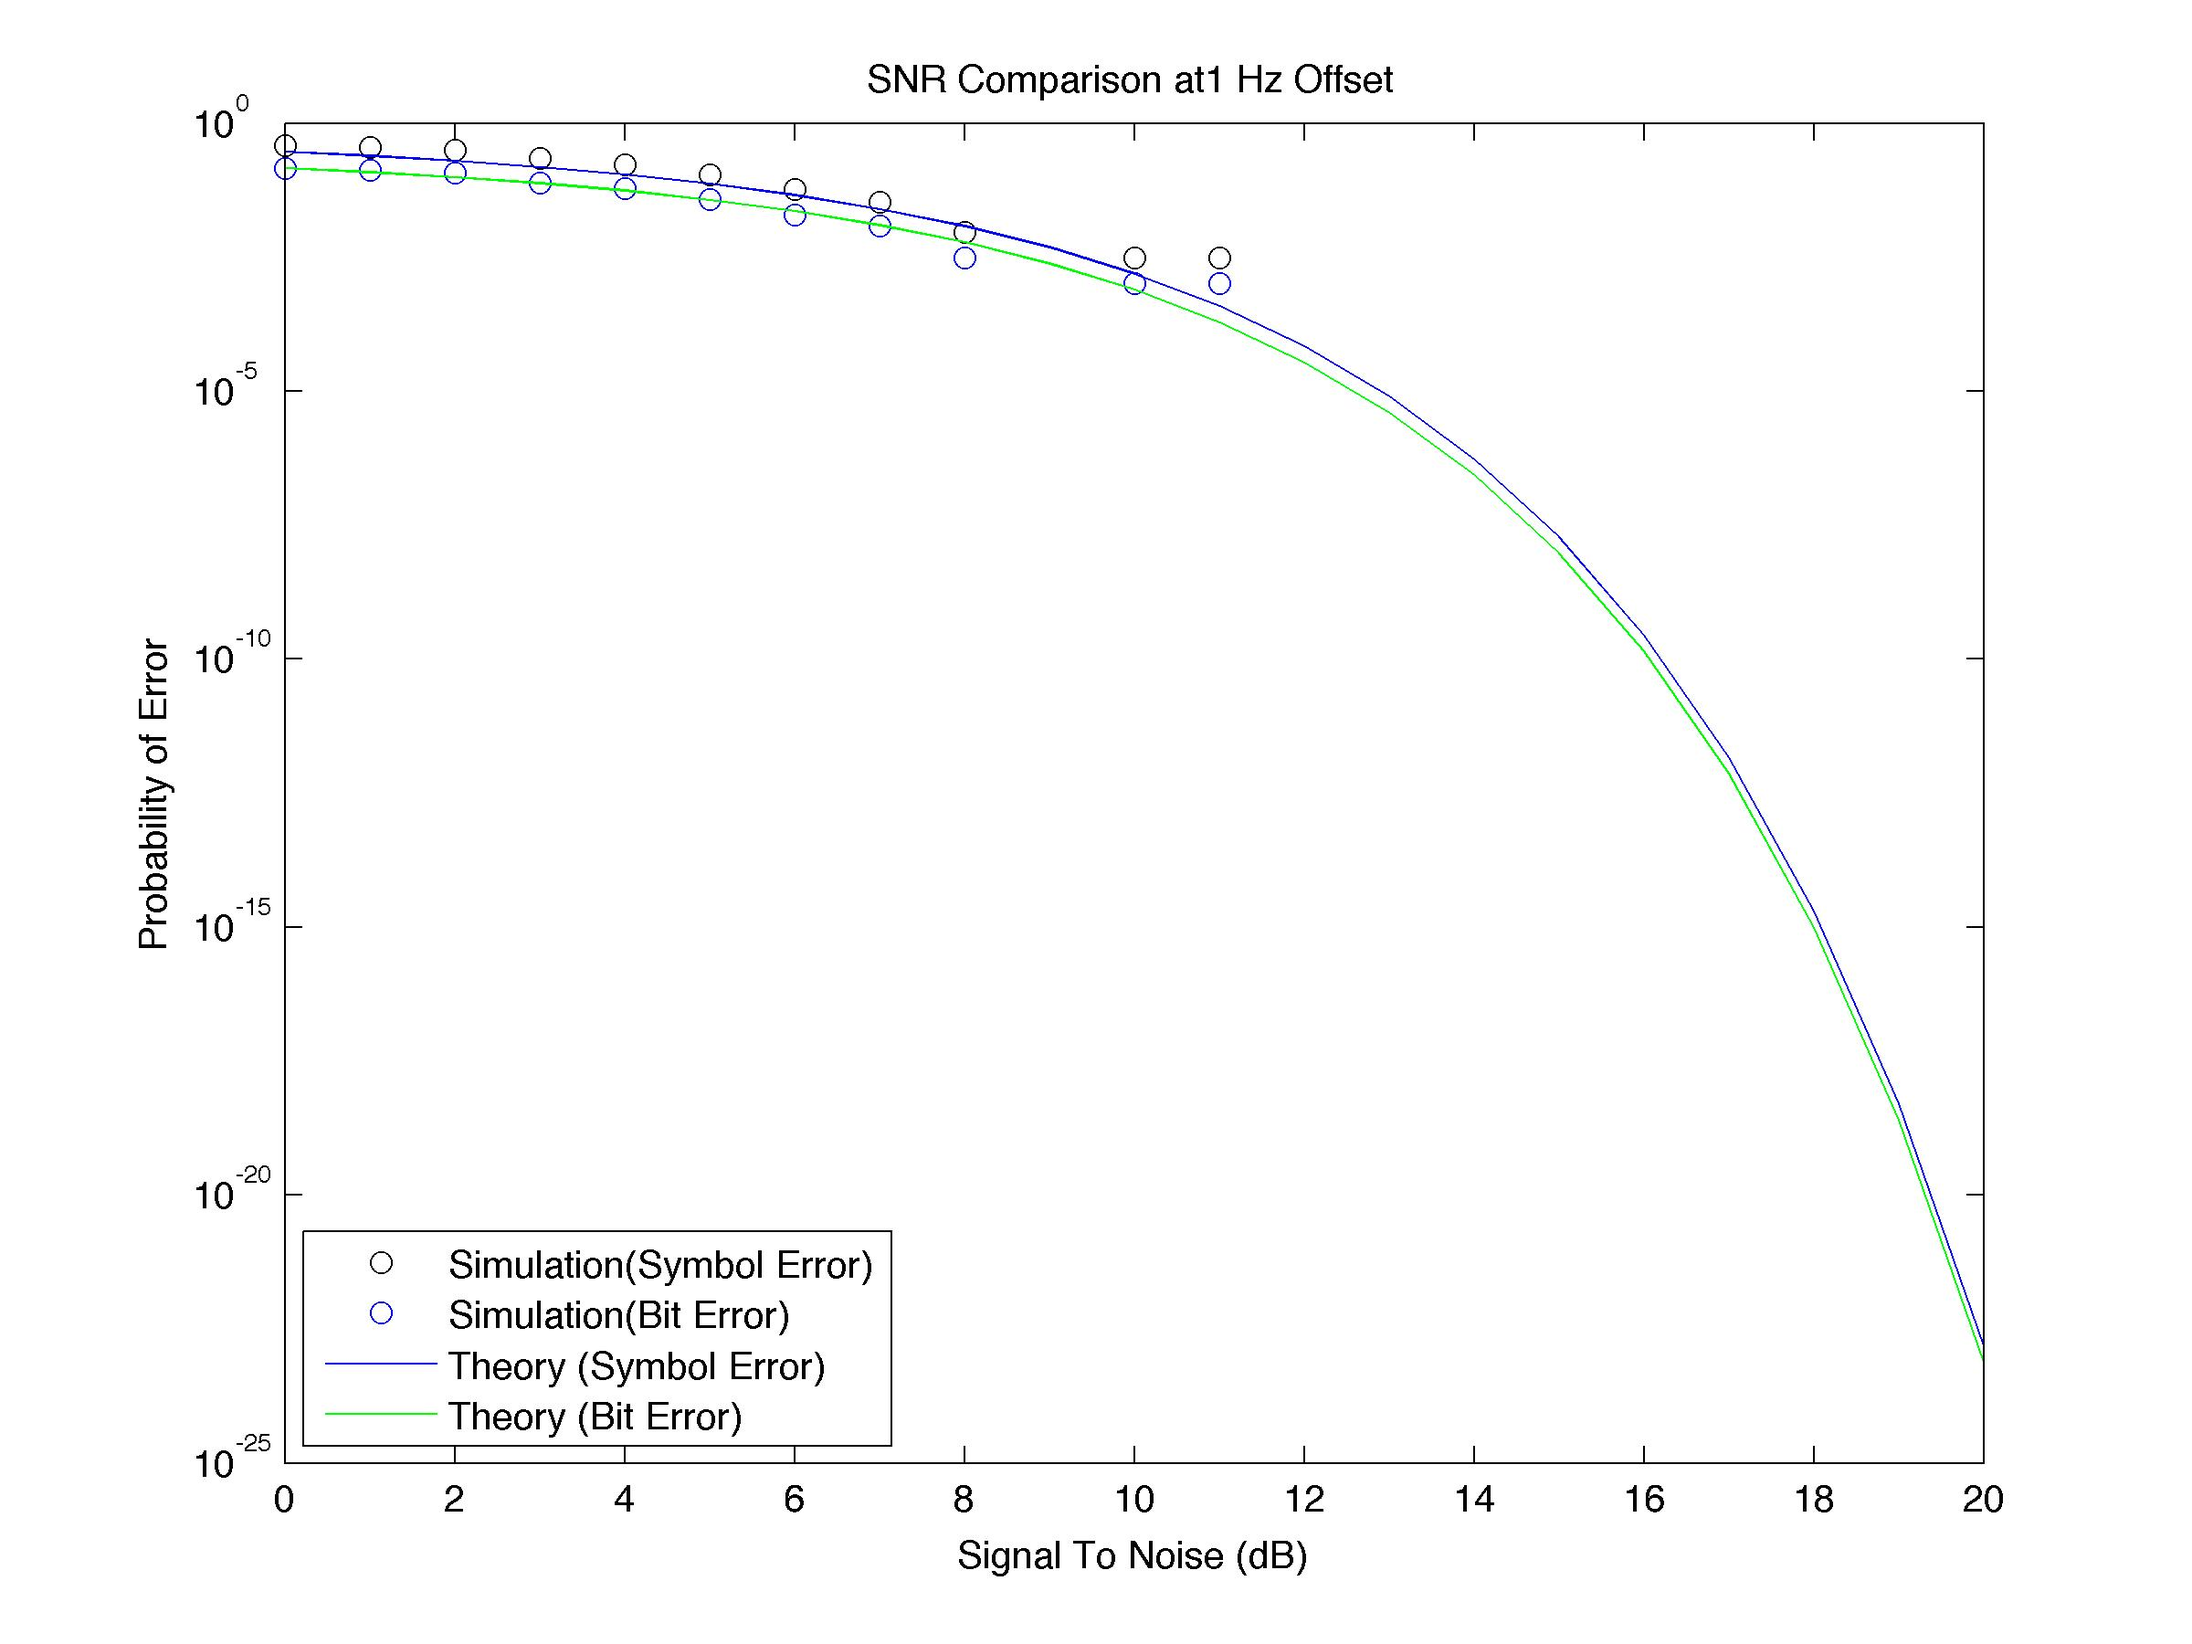
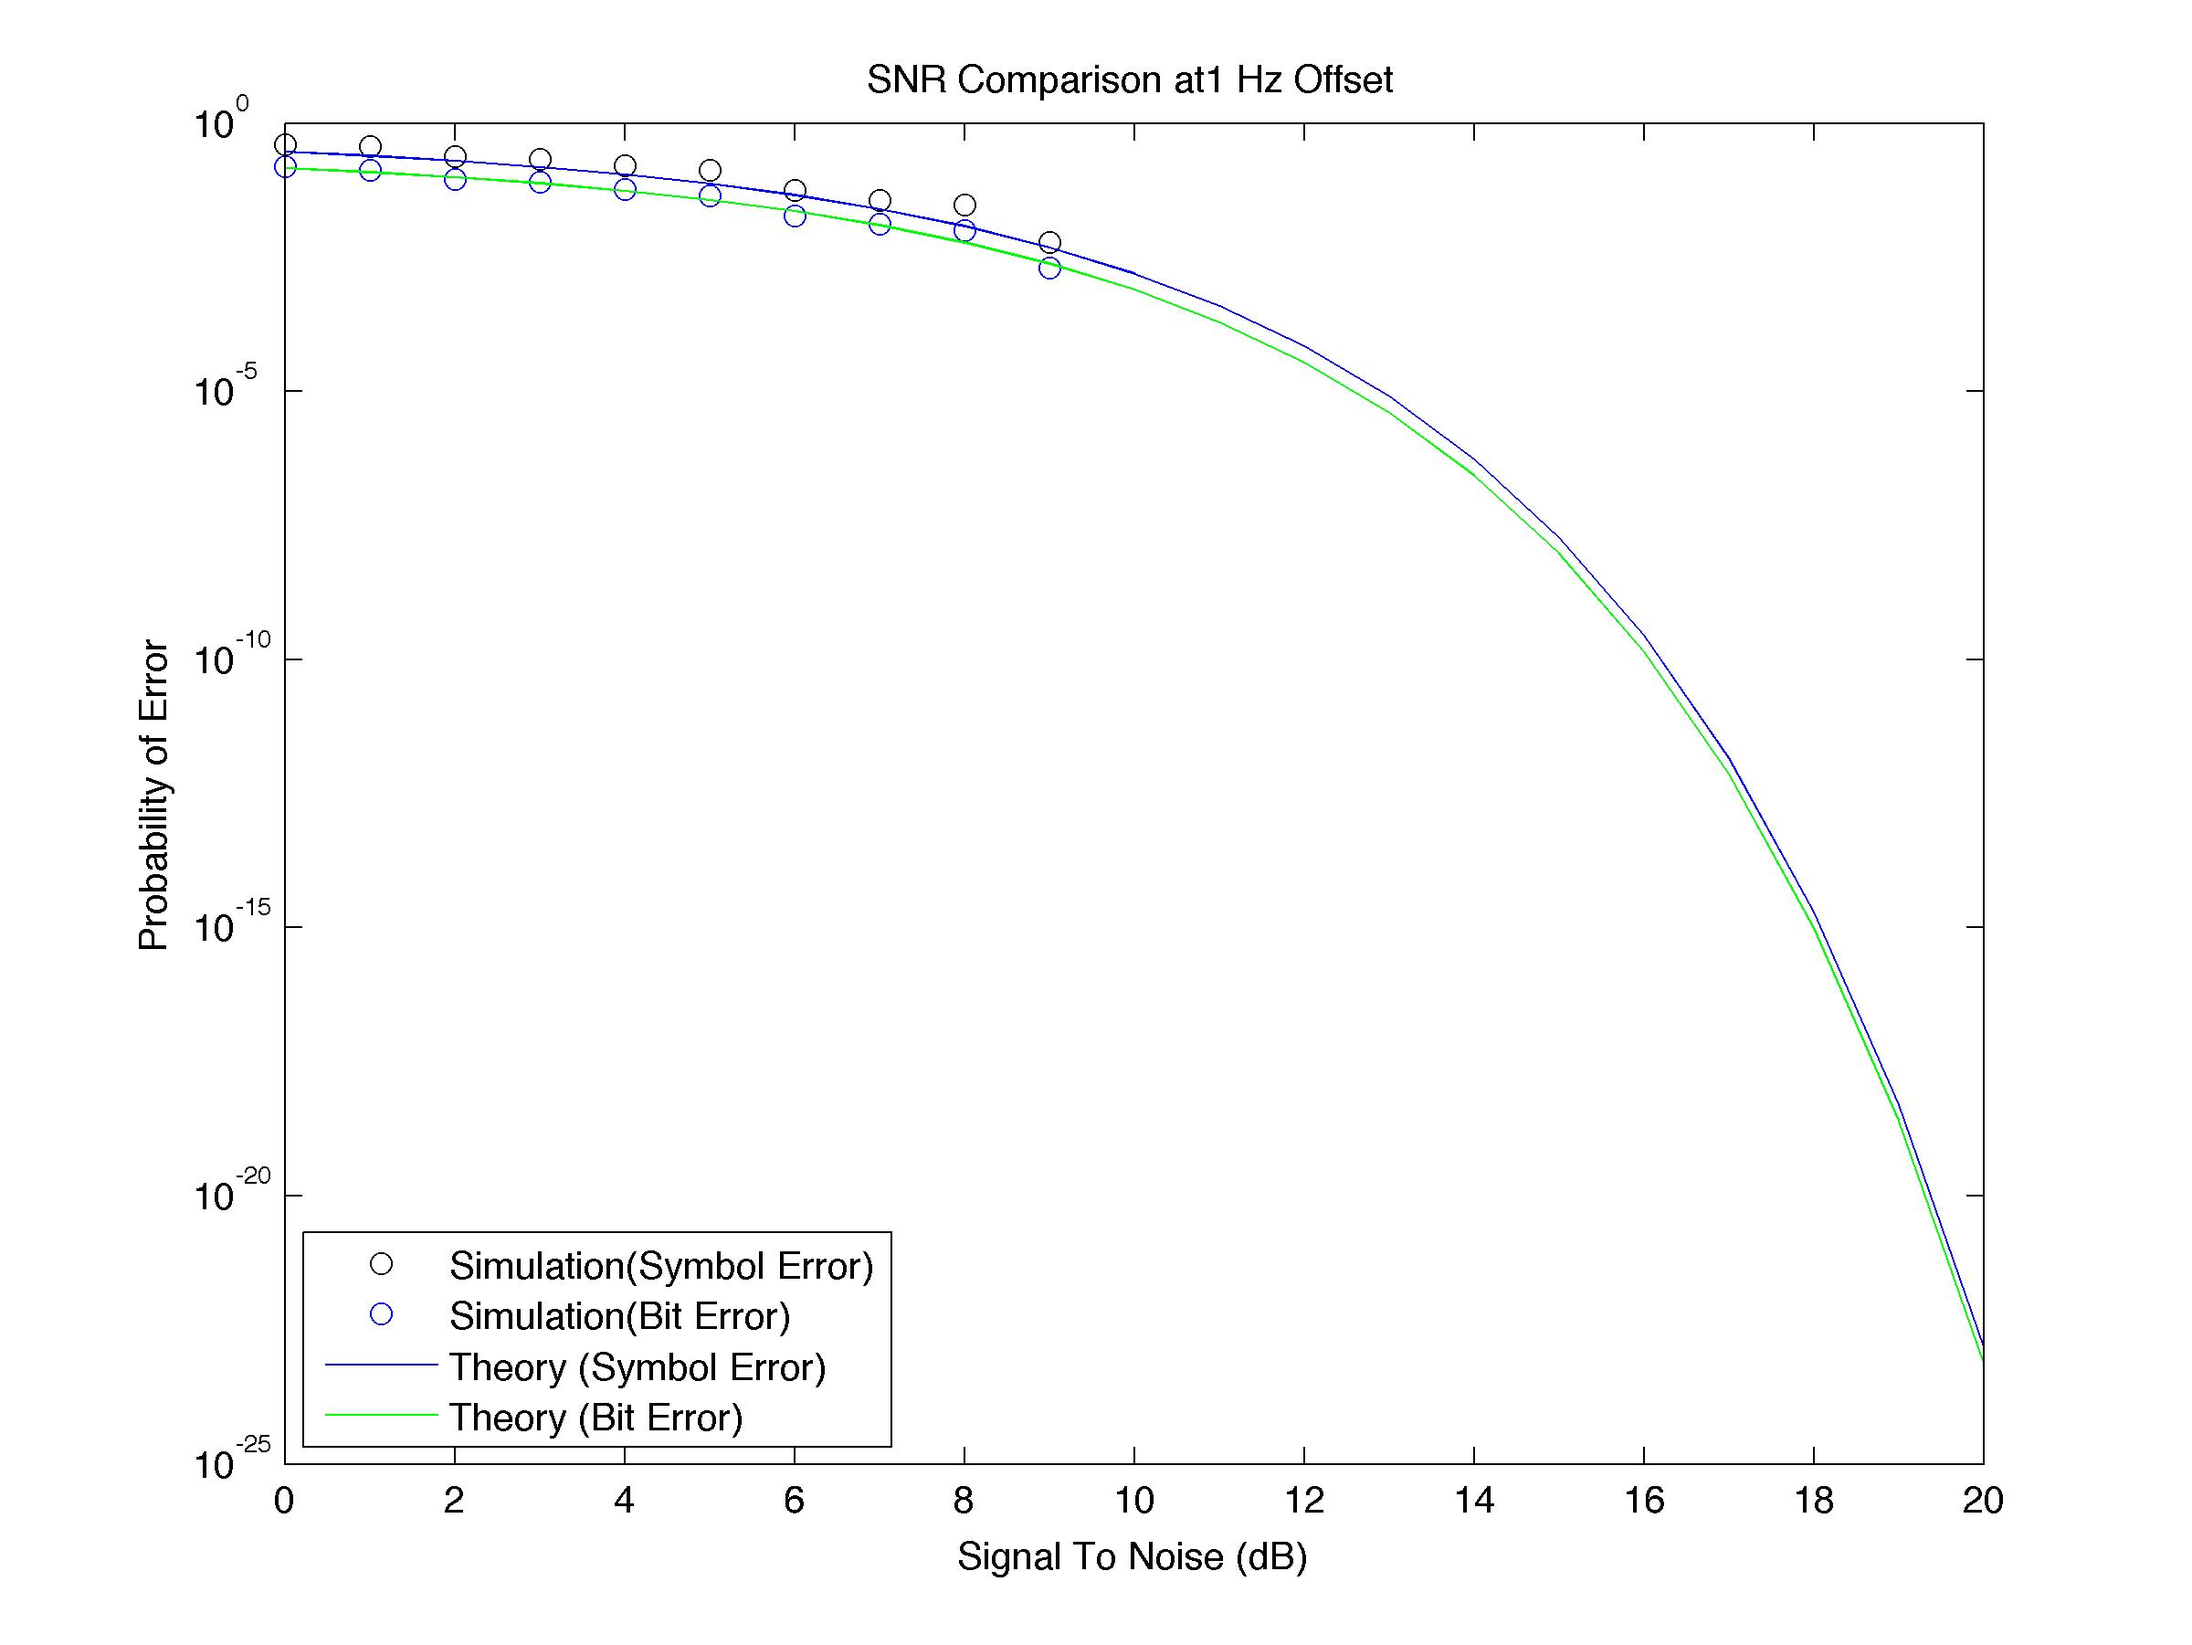
more latex stuff

diff --git a/step2/step2_report.tex b/step2/step2_report.tex
@@ -92,16 +92,21 @@ P_b^{\left( QPSK \right)} = \frac{1}{2}\left[Q\left(\sqrt{\frac{4E_b}{N_0}}sin\l
 
 \section{Step 2 Phase Offset Results}
 \label{sec:results_po}
-In the following sections, the probability of bit error versus the signal to noise ratio is shown on scatter plots for BPSK, QPSK, 16-QAM and 64-QAM constellations .
+In the following sections, the probability of bit error versus the signal to noise ratio is shown on scatter plots for BPSK, QPSK, 16-QAM and 64-QAM constellations.  Notice that the constellations show rotation from the phase errors.  
+
+\begin{figure}[H]
+\centering
+\hspace*{-2cm}\includegraphics[width=0.4\textwidth]{qpskError.png}
+\caption{The rotation of a constellation is based on the phase error}
+\end{figure}
 
 \subsection{Probability of Error vs SNR plots for constellations with Phase Offset}
-In the sections given below considering BPSK, QPSK, 16-QAM and 64-QAM constellations the following  are plotted using the MATLAB functions given in the appendix:
 \begin{itemize}
-\item Theoretical Bit Error Rate/Symbol Error Rate curve as a function of the symbol SNR
-\item The theoretical Bit Error Rate/Symbol Error Rate curve as a function of $E_b/N_o$
-\item The Bit Error Rate/Symbol Error Rate curve from the simulation as a function of the received signal's SNR
+\item Theoretical Symbol Error Rate curve as a function of the symbol SNR
+\item The Symbol Error Rate curve from the simulation as a function of the received signal's SNR
 \end{itemize}
 
+As the phase error builds until $\frac{\pi}{4}$, the constellation becomes more and more shifted.  At some point, the clumps of symbols are far enough out of phase to be random, or equally likely right as wrong.  This happens for phase offsets of 45 degrees.
 \subsubsection{BPSK with Phase Offset}
 \label{sec:bpsk_phase}
 \begin{figure}[H]
@@ -236,124 +241,13 @@ In the following sections scatter plots of  16-QAM constellation are plotted at 
 \hspace*{-2cm}\includegraphics[width=1.3\textwidth]{qam16Constpo4.jpg}
 \caption{The 16-QAM constellation plots for different levels of SNR at a phase offset of 45 degrees}
 \end{figure}
-
+\newpage
 \section{Step 2 Frequency Offset Results}
 \label{sec:results_fo}
-In the following sections, the probability of bit error versus the signal to noise ratio is shown on scatter plots for BPSK, QPSK, 16-QAM and 64-QAM constellations .
-
-\subsection{Probability of Error vs SNR plots for Constellations with Frequency Offset}
-In the sections given below, the constellations of BPSK, QPSK, 16-QAM and 64-QAM are plotted using the MATLAB functions given in the appendix:
-\begin{itemize}
-\item Theoretical Bit Error Rate/Symbol Error Rate curve as a function of the symbol SNR
-\item The theoretical Bit Error Rate/Symbol Error Rate curve as a function of $E_b/N_o$
-\item The Bit Error Rate/Symbol Error Rate curve from the simulation as a function of the received signal's SNR
-\end{itemize}
-
-\subsubsection{BPSK with Frequency Offset}
-\begin{figure}[H]
-\centering
-\hspace*{-2cm}\includegraphics[width=1.3\textwidth]{bpSNRfo1.jpg}
-\caption{BPSK Theoretical and Experimental error rates versus different SNR levels at a frequency offset of 0.01 Hz}
-\end{figure}
-
-\begin{figure}[H]
-\centering
-\hspace*{-2cm}\includegraphics[width=1.3\textwidth]{bpSNRfo2.jpg}
-\caption{BPSK Theoretical and Experimental error rates versus different SNR levels at a frequency offset of 0.1 Hz}
-\end{figure}
-
-
-\begin{figure}[H]
-\centering
-\hspace*{-2cm}\includegraphics[width=1.3\textwidth]{bpSNRfo3.jpg}
-\caption{BPSK Theoretical and Experimental error rates versus different SNR levels at a frequency offset of 1 Hz}
-\end{figure}
-
-\begin{figure}[H]
-\centering
-\hspace*{-2cm}\includegraphics[width=1.3\textwidth]{bpSNRfo4.jpg}
-\caption{BPSK Theoretical and Experimental error rates versus different SNR levels at a frequency offset of 10 Hz}
-\end{figure}
-
-
-\subsubsection{QPSK with Frequency Offset}
-\begin{figure}[H]
-\centering
-\hspace*{-2cm}\includegraphics[width=1.3\textwidth]{qpSNRfo1.jpg}
-\caption{QPSK Theoretical and Experimental error rates versus different SNR levels at a frequency offset of 0.01 Hz}
-\end{figure}
-
-\begin{figure}[H]
-\centering
-\hspace*{-2cm}\includegraphics[width=1.3\textwidth]{qpSNRfo2.jpg}
-\caption{QPSK Theoretical and Experimental error rates versus different SNR levels at a frequency offset of 0.1 Hz}
-\end{figure}
-
-\begin{figure}[H]
-\centering
-\hspace*{-2cm}\includegraphics[width=1.3\textwidth]{qpSNRfo3.jpg}
-\caption{QPSK Theoretical and Experimental error rates versus different SNR levels at a frequency offset of 1 Hz}
-\end{figure}
-
-\begin{figure}[H]
-\centering
-\hspace*{-2cm}\includegraphics[width=1.3\textwidth]{qpSNRfo4.jpg}
-\caption{QPSK Theoretical and Experimental error rates versus different SNR levels at a frequency offset of 10 Hz}
-\end{figure}
-
-
-\subsubsection{16-QAM with Frequency Offset}
-\begin{figure}[H]
-\centering
-\hspace*{-2cm}\includegraphics[width=1.3\textwidth]{qam16SNRfo1.jpg}
-\caption{16-QAM Theoretical and Experimental error rates versus different SNR levels at a frequency offset of 0.01 Hz}
-\end{figure}
-
-\begin{figure}[H]
-\centering
-\hspace*{-2cm}\includegraphics[width=1.3\textwidth]{qam16SNRfo2.jpg}
-\caption{16-QAM Theoretical and Experimental error rates versus different SNR levels at a frequency offset of 0.1 Hz}
-\end{figure}
-
-\begin{figure}[H]
-\centering
-\hspace*{-2cm}\includegraphics[width=1.3\textwidth]{qam16SNRfo3.jpg}
-\caption{16-QAM Theoretical and Experimental error rates versus different SNR levels at a frequency offset of 1 Hz}
-\end{figure}
-
-\begin{figure}[H]
-\centering
-\hspace*{-2cm}\includegraphics[width=1.3\textwidth]{qam16SNRfo4.jpg}
-\caption{16-QAM Theoretical and Experimental error rates versus different SNR levels at a frequency offset of 10 Hz}
-\end{figure}
-
-\subsubsection{64-QAM with Frequency Offset}
-\begin{figure}[H]
-\centering
-\hspace*{-2cm}\includegraphics[width=1.3\textwidth]{qam64SNRfo1.jpg}
-\caption{64-QAM Theoretical and Experimental error rates versus different SNR levels at a frequency offset of 0.01 Hz}
-\end{figure}
-
-\begin{figure}[H]
-\centering
-\hspace*{-2cm}\includegraphics[width=1.3\textwidth]{qam64SNRfo2.jpg}
-\caption{64-QAM Theoretical and Experimental error rates versus different SNR levels at a frequency offset of 0.1 Hz}
-\end{figure}
-
-\begin{figure}[H]
-\centering
-\hspace*{-2cm}\includegraphics[width=1.3\textwidth]{qam64SNRfo3.jpg}
-\caption{64-QAM Theoretical and Experimental error rates versus different SNR levels at a frequency offset of 1 Hz}
-\end{figure}
-
-\begin{figure}[H]
-\centering
-\hspace*{-2cm}\includegraphics[width=1.3\textwidth]{qam64SNRfo4.jpg}
-\caption{64-QAM Theoretical and Experimental error rates versus different SNR levels at a frequency offset of 10 Hz}
-\end{figure}
-
 \subsection{Constellation Plots for BPSK and QPSK with Frequency Offset}
 In the following sections scatter plots of  BPSK and QPSK constellations are plotted at symbol/input SNRs of 3 dB, 6dB, 10dB and 20dB and frequency offsets of 0.01 Hz, 0.1 Hz, 1 Hz, 10 Hz.
+
+We expect the frequency offset to cause a blurring around the unit circle.  However since our symbol period is small to begin with, the dilation of the blob is hard to see except in the high SNR plots.  For 10 Hz offset, with SNR of 20 dB, there is a clear stretching of the symbols.    
 
 \subsubsection{BPSK with Frequency Offset}
 \label{sec:bpsk_freqConst}

diff --git a/step2/step2_sim_phase_qpsk.m b/step2/step2_sim_phase_qpsk.m
@@ -12,7 +12,7 @@ B = rollOffFactor*(1/(2*Ts)) + 1/(2*Ts); %srrc pulse bandwidth
 srrc = sqrt_raised_cosine(overSampleSize,rollOffFactor,4,Ts);
 SNR = 0:20; %SNR levels where the system will be simulated
 EbN0 = SNR2EbN0(SNR,2,B); %convert given SNR levels to EbNo
-N= 1000;  %number of bits generated
+N= 2000;  %number of bits generated
 k = 2;  % bits per symbol
 phase_offsets = [5,10,20,45]; %phase offsets for simulation
 bits = random_bit_generator(N);  %random bit generation
@@ -25,9 +25,9 @@ impulse_train_inphase = impulse_train(overSampleSize,N/k,inphase);
 transmit_quad = conv(impulse_train_quad,srrc,'same');
 transmit_inphase = conv(impulse_train_inphase,srrc,'same');
 
-for k=1:length(phase_offsets)
+for y=1:length(phase_offsets)
     %pass the signals through phase offset block
-    transmit_phase_offset = phase_offset(pi*phase_offsets(k)/180,transmit_inphase+j*transmit_quad);
+    transmit_phase_offset = phase_offset(pi*phase_offsets(y)/180,transmit_inphase+j*transmit_quad);
 
     %loop this section for the generation of BER vs SNR graphs and
     %constellation plots
@@ -71,27 +71,27 @@ for k=1:length(phase_offsets)
 
         %SER calculation - drop first symbol   
         ser(i) = SER(bits(3:N),output_bits(3:N),k);
-        ber(i) = BER(bits(3:N),output_bits(3:N));
         %SER theoretical calculation
         a = 10^(EbN0(i)/10);
-        ser_theo(i) = 2*qfunc(sqrt(2*a))-qfunc(sqrt(2*a))^2;
-        ber_theo(i) = (1/2)*(2*qfunc(sqrt(2*a))-qfunc(sqrt(2*a))^2);
+        ser_theo(i) = (qfunc(sqrt(2*a*sin(pi/4 - ...
+            pi*phase_offsets(y)/180)))+ qfunc(sqrt(2*a*sin(pi/4 + ...
+            pi*phase_offsets(y)/180))));
     end
 
     % save the constellation plot
-    print(f,'-djpeg','-r300',strcat('qpConstpo',num2str(k)));
+    print(f,'-djpeg','-r300',strcat('qpConstpo',num2str(y)));
 
     %plot theoretical/simulation BER vs SNR graph
     g=figure;
-    semilogy(SNR,ser,'ko');
     hold on;
-    semilogy(SNR,ber,'bo');
-    semilogy(SNR,ser_theo, 'b');
-    semilogy(SNR,ber_theo,'g');
+    semilogy(SNR,ser,'bo');
+    semilogy(SNR,ser_theo,'g');
     ylabel('Probability of Error');
     xlabel('Signal To Noise (dB)');
-    legend('Simulation(Symbol Error)','Simulation(Bit Error)','Theory (Symbol Error)',...
-        'Theory (Bit Error)','Location','SouthWest');
+    title(strcat('SNR Comparison at ',...
+        num2str(phase_offsets(y)), ' Degree Offset'));
+    legend('Simulation(Symbol Error)',...
+        'Theory (Symbol Error)','Location','SouthWest');
     % save the BER graph
-    print(g,'-djpeg','-r300',strcat('qpSNRpo',num2str(k)));
+    print(g,'-djpeg','-r300',strcat('qpSNRpo',num2str(y)));
 end

diff --git a/step2/step2_sim_freq_qpsk.m b/step2/step2_sim_freq_qpsk.m
@@ -6,13 +6,13 @@ clc;
 %Start by setting the initial variables
 overSampleSize = 4;
 rollOffFactor = 0.25;
-Ts = 2/10^6; %Symbol period (10Mbps)
+Ts = 2/10^6; %Symbol period (1Mbps)
 S=2; %average signal power for QPSK
 B = rollOffFactor*(1/(2*Ts)) + 1/(2*Ts); %srrc pulse bandwidth
 srrc = sqrt_raised_cosine(overSampleSize,rollOffFactor,400,Ts);
 SNR = 0:20; %SNR levels where the system will be simulated
 EbN0 = SNR2EbN0(SNR,2,B); %convert given SNR levels to EbNo
-N= 1000;  %number of bits generated
+N= 20000;  %number of bits generated
 k = 2;  % bits per symbol
 bits = random_bit_generator(N);  %random bit generation
 freq_offsets = [0.01,0.1,1,10]; %frequency offsets for the simulation
@@ -82,19 +82,4 @@ for k=1:length(freq_offsets)
     % save the constellation plot
     print(f,'-djpeg','-r300',strcat('qpConstfo',num2str(k)));
 
-    %plot theoretical/simulation BER vs SNR graph
-    g=figure;
-    semilogy(SNR,ser,'ko');
-    hold on;
-    semilogy(SNR,ber,'bo');
-    semilogy(SNR,ser_theo, 'b');
-    semilogy(SNR,ber_theo,'g');
-    ylabel('Probability of Error');
-    xlabel('Signal To Noise (dB)');
-    title(strcat('SNR Comparison at ', num2str(freq_offsets(k)), ' Hz Offset'));
-    legend('Simulation(Symbol Error)','Simulation(Bit Error)',...
-        'Theory (Symbol Error)',...
-        'Theory (Bit Error)','Location','SouthWest');
-    % save the BER graph
-    print(g,'-djpeg','-r300',strcat('qpSNRfo',num2str(k)));
 end

diff --git a/step2/step2_sim_phase_bpsk.m b/step2/step2_sim_phase_bpsk.m
@@ -3,10 +3,10 @@
 close all;
 clear all;
 %Start by setting the initial variables
-N= 1000; %number of bits generated
+N= 2000; %number of bits generated
 overSampleSize = 4;
 rollOffFactor = 0.25;
-Ts = 1/10^6; %Symbol period (10Mbps)
+Ts = 1/10^6; %Symbol period (1Mbps)
 phase_offsets = [5,10,20,45]; %phase offsets for simulation
 S=1; %average signal power for BPSK
 B = rollOffFactor*(1/(2*Ts)) + 1/(2*Ts); %srrc pulse bandwidth
@@ -66,7 +66,7 @@ for k=1:length(phase_offsets)
         ber(i) = BER(bits(2:N),output_bits(2:N));    
         %BER theoretical calculation
         a = 10^(EbN0(i)/10);
-        ber_theo(i) = qfunc(sqrt(2*a));  
+        ber_theo(i) = qfunc(sqrt(2*a*cos(pi*phase_offsets(k)/180)^2));  
     end
     % save the constellation plot
     print(f,'-djpeg','-r300',strcat('bpConstpo',num2str(k)));
@@ -78,7 +78,7 @@ for k=1:length(phase_offsets)
     semilogy(SNR,ber_theo, 'b');
     ylabel('Probability of Error');
     xlabel('SNR (dB)');
-    title(strcat('SNR Comparison at  ', num2str(phase_offsets(k)), ' Degree Offset'));
+    title(strcat('SNR Comparison at ', num2str(phase_offsets(k)), ' Degree Offset'));
     legend('Simulation (Bit Error)','Theory (Bit Error)');
     % save the BER graph
     print(h,'-djpeg','-r300',strcat('bpSNRpo',num2str(k)));
